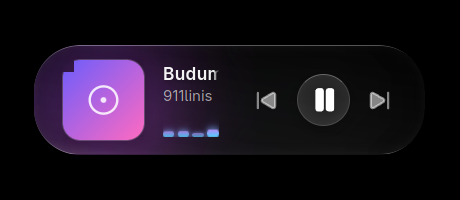
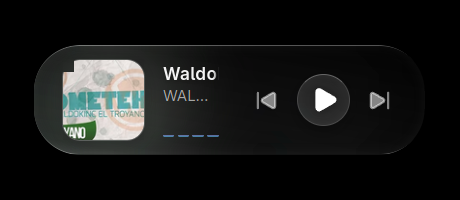
feat: fetch real album art from MPRIS and Windows Media Session

Changed region(s): [[0.0609, 0.27, 0.487, 0.78], [0.6696, 0.42, 0.7304, 0.57]]

diff --git a/src/App.tsx b/src/App.tsx
@@ -14,9 +14,15 @@ interface SongInfo {
   title: string;
   artist: string;
   isPlaying: boolean;
+  coverArt: string | null;
 }
 
-const EMPTY_SONG: SongInfo = { title: "", artist: "", isPlaying: false };
+const EMPTY_SONG: SongInfo = {
+  title: "",
+  artist: "",
+  isPlaying: false,
+  coverArt: null,
+};
 
 function trackKey(song: SongInfo) {
   return `${song.title}|${song.artist}`;
@@ -71,7 +77,7 @@ function App() {
       <div className="content" data-tauri-drag-region>
         <div className="icon-container" data-tauri-drag-region>
           <img
-            src={coverPlaceholder}
+            src={displaySong.coverArt ?? coverPlaceholder}
             alt="Album cover"
             data-tauri-drag-region
           />

diff --git a/src-tauri/src/media/windows.rs b/src-tauri/src/media/windows.rs
@@ -1,8 +1,12 @@
 use super::{MediaAction, SongInfo};
+use base64::{engine::general_purpose::STANDARD, Engine};
 use windows::Media::Control::{
-    GlobalSystemMediaTransportControlsSession, GlobalSystemMediaTransportControlsSessionManager,
+    GlobalSystemMediaTransportControlsSession,
+    GlobalSystemMediaTransportControlsSessionManager,
+    GlobalSystemMediaTransportControlsSessionMediaProperties,
     GlobalSystemMediaTransportControlsSessionPlaybackStatus,
 };
+use windows::Storage::Streams::DataReader;
 
 fn current_session() -> Option<GlobalSystemMediaTransportControlsSession> {
     let manager = GlobalSystemMediaTransportControlsSessionManager::RequestAsync()
@@ -10,6 +14,34 @@ fn current_session() -> Option<GlobalSystemMediaTransportControlsSession> {
         .join()
         .ok()?;
     manager.GetCurrentSession().ok()
+}
+
+/// The Windows Media Session API only hands back raw thumbnail bytes (no
+/// URL), so read the stream ourselves and inline it as a `data:` URI.
+fn resolve_cover_art(
+    properties: &GlobalSystemMediaTransportControlsSessionMediaProperties,
+) -> Option<String> {
+    let thumbnail = properties.Thumbnail().ok()?;
+    let stream = thumbnail.OpenReadAsync().ok()?.join().ok()?;
+
+    let size = stream.Size().ok()?;
+    if size == 0 || size > 8 * 1024 * 1024 {
+        return None;
+    }
+
+    let reader = DataReader::CreateDataReader(&stream).ok()?;
+    reader.LoadAsync(size as u32).ok()?.join().ok()?;
+
+    let mut buffer = vec![0u8; size as usize];
+    reader.ReadBytes(&mut buffer).ok()?;
+
+    let mime = stream
+        .ContentType()
+        .map(|s| s.to_string())
+        .unwrap_or_default();
+    let mime = if mime.is_empty() { "image/png" } else { &mime };
+
+    Some(format!("data:{mime};base64,{}", STANDARD.encode(buffer)))
 }
 
 pub fn get_song_info() -> SongInfo {
@@ -34,6 +66,8 @@ pub fn get_song_info() -> SongInfo {
         .map(|s| s.to_string())
         .unwrap_or_default();
 
+    let cover_art = properties.as_ref().and_then(resolve_cover_art);
+
     let is_playing = session
         .GetPlaybackInfo()
         .ok()
@@ -45,6 +79,7 @@ pub fn get_song_info() -> SongInfo {
         title,
         artist,
         is_playing,
+        cover_art,
     }
 }
 

diff --git a/src-tauri/src/media/linux.rs b/src-tauri/src/media/linux.rs
@@ -1,9 +1,35 @@
 use super::{MediaAction, SongInfo};
+use base64::{engine::general_purpose::STANDARD, Engine};
 use mpris::{PlaybackStatus, Player, PlayerFinder};
 
 fn active_player() -> Option<Player> {
     let finder = PlayerFinder::new().ok()?;
     finder.find_active().or_else(|_| finder.find_first()).ok()
+}
+
+fn guess_mime(path: &str) -> &'static str {
+    match path.rsplit('.').next().unwrap_or("").to_lowercase().as_str() {
+        "png" => "image/png",
+        "gif" => "image/gif",
+        "webp" => "image/webp",
+        "bmp" => "image/bmp",
+        _ => "image/jpeg",
+    }
+}
+
+/// MPRIS' `mpris:artUrl` is usually an http(s) URL (Spotify, browsers) that
+/// an `<img>` tag can use as-is, but players that cache art locally hand back
+/// a `file://` path instead, which the webview can't load directly — read
+/// those bytes ourselves and inline them as a `data:` URI.
+fn resolve_cover_art(art_url: &str) -> Option<String> {
+    if art_url.starts_with("http://") || art_url.starts_with("https://") {
+        return Some(art_url.to_string());
+    }
+
+    let path = art_url.strip_prefix("file://")?;
+    let bytes = std::fs::read(path).ok()?;
+    let mime = guess_mime(path);
+    Some(format!("data:{mime};base64,{}", STANDARD.encode(bytes)))
 }
 
 pub fn get_song_info() -> SongInfo {
@@ -25,6 +51,11 @@ pub fn get_song_info() -> SongInfo {
         .map(|artists| artists.join(", "))
         .unwrap_or_else(|| "Unknown artist".to_string());
 
+    let cover_art = metadata
+        .as_ref()
+        .and_then(|m| m.art_url())
+        .and_then(resolve_cover_art);
+
     let is_playing = player
         .get_playback_status()
         .map(|status| status == PlaybackStatus::Playing)
@@ -34,6 +65,7 @@ pub fn get_song_info() -> SongInfo {
         title,
         artist,
         is_playing,
+        cover_art,
     }
 }
 

diff --git a/src-tauri/src/media/mod.rs b/src-tauri/src/media/mod.rs
@@ -6,6 +6,9 @@ pub struct SongInfo {
     pub title: String,
     pub artist: String,
     pub is_playing: bool,
+    /// Album art as something an `<img>` tag can use directly: an http(s)
+    /// URL, or a `data:` URI when the source only exposes raw image bytes.
+    pub cover_art: Option<String>,
 }
 
 impl SongInfo {
@@ -16,6 +19,7 @@ impl SongInfo {
             title: String::new(),
             artist: String::new(),
             is_playing: false,
+            cover_art: None,
         }
     }
 }

diff --git a/PRODUCT.md b/PRODUCT.md
@@ -39,7 +39,7 @@ Name "AeroGlass" is fixed. The visual system is pinned to two concrete reference
 
 ## Evidence on Hand
 
-None (no logos, screenshots, or copy commitments beyond the code itself). Cover art is currently a placeholder gradient SVG — real album art will come from the OS media session later (documented as a post-launch idea in Planning.md, not yet implemented).
+None (no logos or copy commitments beyond the code itself). Real album art is now wired end-to-end: `SongInfo.coverArt` (Linux: MPRIS `mpris:artUrl`, passed through as-is for http(s) sources or read+base64-inlined for `file://` sources; Windows: `Thumbnail()`'s raw stream, base64-inlined — unverified, no Windows machine available). The gradient SVG (`src/assets/cover-placeholder.svg`) is now only the fallback for when no session/art is available.
 
 ## Product Principles
 

diff --git a/Planning.md b/Planning.md
@@ -186,7 +186,7 @@ el estándar de Linux para reproductores multimedia.
 
 ## Ideas para diferenciarlo más del original (opcional, después de la Fase 9)
 
-- [ ] Carátula del álbum real (MPRIS y Windows Media Session exponen el thumbnail)
+- [x] Carátula del álbum real (MPRIS y Windows Media Session exponen el thumbnail)
 - [ ] Reemplazar el polling por eventos (`MediaPropertiesChanged` en Windows,
       señales de D-Bus en Linux) en vez de preguntar cada segundo
 - [ ] Barra de progreso / tiempo transcurrido de la canción
